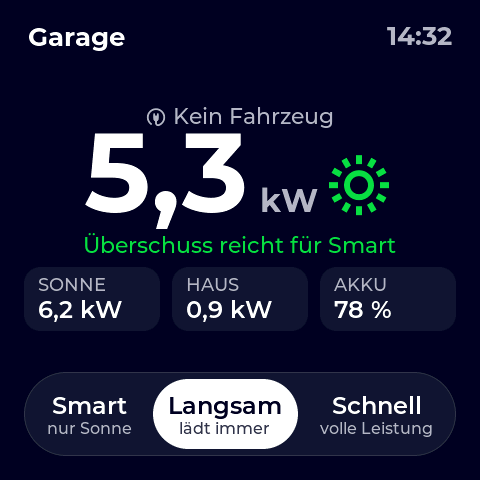
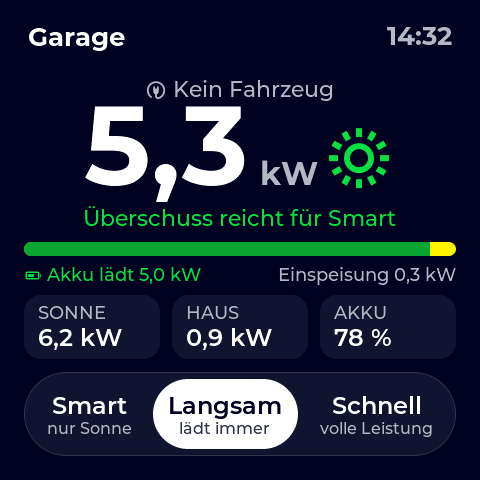
Ohne Fahrzeug zeigen, wohin der Überschuss geht: Akku und Netz
Ein Balken unter dem Sonnenüberschuss zeigt, was in den Hausakku (grün)
und ins Netz (gelb) geht, abends Entladen des Akkus und Netzbezug (grau).
Der Überschuss ergibt sich jetzt aus Akku- und Netzleistung und lässt
damit weg, was andere Ladepunkte schon nutzen. Neuer Beispielzustand
nocarfull (#3).

Changed region(s): [[0.0312, 0.1562, 0.9688, 0.7188]]

diff --git a/site/index.html b/site/index.html
@@ -146,7 +146,7 @@
             <figure><img data-shot="solar" alt="Lädt mit 4,1 kW, 100 % Sonne" /><figcaption><b>Nur Sonne</b>100 % vom Dach, Modus Smart</figcaption></figure>
             <figure><img data-shot="fast" alt="Lädt mit 11 kW im Modus Schnell" /><figcaption><b>Schnell</b>Volle Leistung aus dem Netz</figcaption></figure>
             <figure><img data-shot="start" alt="Genug Sonne – Start in 0:45" /><figcaption><b>Gleich geht's los</b>Countdown, bis genug Sonne da ist</figcaption></figure>
-            <figure><img data-shot="nocar" alt="Kein Fahrzeug, 5,3 kW Sonnenüberschuss, reicht für Smart" /><figcaption><b>Kein Fahrzeug</b>Sonnenüberschuss, Haus und Akku – lohnt sich Anstecken gerade?</figcaption></figure>
+            <figure><img data-shot="nocar" alt="Kein Fahrzeug, 5,3 kW Sonnenüberschuss: 5,0 kW in den Akku, 0,3 kW ins Netz" /><figcaption><b>Kein Fahrzeug</b>Sonnenüberschuss und wohin er geht: in den Akku oder ins Netz – lohnt sich Anstecken gerade?</figcaption></figure>
             <figure><img data-shot="stale" alt="evcc nicht erreichbar" /><figcaption><b>Ehrlich bei Störungen</b>Zeigt, wenn die Daten nicht aktuell sind</figcaption></figure>
           </div>
         </div>

diff --git a/src/ui.cpp b/src/ui.cpp
@@ -17,7 +17,7 @@ LV_FONT_DECLARE(font_icon_big);
 
 // Farben angelehnt an die evcc-Weboberfläche
 struct Theme {
-  lv_color_t bg, box, text, muted, activeBg, activeFg, pressed, solar, solarText, grid, warn, error, border;
+  lv_color_t bg, box, text, muted, activeBg, activeFg, pressed, solar, solarText, grid, warn, error, border, battery, feedIn;
 };
 
 static const Theme LIGHT = {
@@ -26,13 +26,15 @@ static const Theme LIGHT = {
     lv_color_hex(0x28293E), lv_color_hex(0xFFFFFF), lv_color_hex(0xE4E4EC), lv_color_hex(0x0FDE41),
     lv_color_hex(0x078A2C), lv_color_hex(0x28293E), lv_color_hex(0xC26A00), lv_color_hex(0xD9380A),
     lv_color_hex(0xDCDCE4),
+    // Akku und Einspeisung wie im Energiefluss von evcc (Einspeisung auf Hell im dunkleren Gelb)
+    lv_color_hex(0x0BA631), lv_color_hex(0xF6BB0F),
 };
 // Dunkles Navy wie evcc ab 0.317
 static const Theme DARK = {
     lv_color_hex(0x010322), lv_color_hex(0x151630), lv_color_hex(0xFFFFFF), lv_color_hex(0xB5B6C3),
     lv_color_hex(0xFFFFFF), lv_color_hex(0x010322), lv_color_hex(0x2A2C4C), lv_color_hex(0x0FDE41),
     lv_color_hex(0x0FDE41), lv_color_hex(0x93949E), lv_color_hex(0xFF9000), lv_color_hex(0xFC440F),
-    lv_color_hex(0x33354F),
+    lv_color_hex(0x33354F), lv_color_hex(0x0BA631), lv_color_hex(0xFAF000),
 };
 
 static const Theme* theme = &LIGHT;
@@ -408,7 +410,6 @@ static void applyTheme() {
   lv_obj_set_style_text_color(lblVehicle, t.muted, 0);
   lv_obj_set_style_text_color(lblBattery, t.muted, 0);
   lv_obj_set_style_text_color(lblGrid, t.muted, 0);
-  lv_obj_set_style_bg_color(barFill, t.solar, 0);
   for (int i = 0; i < 3; i++) {
     lv_obj_set_style_bg_color(tile[i], t.box, 0);
     lv_obj_set_style_text_color(tileLabel[i], t.muted, 0);
@@ -442,7 +443,12 @@ static void renderSegments(ChargeMode shown, bool pending) {
   }
 }
 
-static float surplus(const EvccState& s) { return LV_MAX(0.0f, s.pvPower - s.homePower); }
+// Was gerade in den Akku und ins Netz geht – ohne das, was andere Ladepunkte schon nutzen.
+// Ohne Netzleistung: PV minus Hausverbrauch
+static float surplus(const EvccState& s) {
+  const float battery = s.batterySoc >= 0 ? s.batteryPower : 0;
+  return LV_MAX(0.0f, s.hasGrid ? -(s.gridPower + battery) : s.pvPower - s.homePower);
+}
 
 // Ohne Fahrzeug Sonnenüberschuss, Haus und Akku zeigen, sofern evcc eine PV-Anlage kennt (auch nachts)
 static bool showHouse(const EvccState& s) { return s.valid && !s.connected && s.pvPower >= 0; }
@@ -593,13 +599,37 @@ void ui::render(const UiView& v) {
   lv_label_set_text(lblStatus, buf);
   lv_obj_set_style_text_color(lblStatus, statusColor, 0);
 
-  // Balken: aktueller Sonnenanteil der Ladeleistung
+  // Balken: beim Laden der aktuelle Sonnenanteil der Ladeleistung. Ohne Fahrzeug, wohin der Überschuss
+  // geht (Akku grün, Einspeisung gelb) bzw. woher das Haus Strom bezieht (Akku, Netzbezug grau)
   const bool showBar = showPower && s.charging && s.greenShare >= 0;
-  setVisible(barBlock, showBar);
-  if (showBar) {
+  const bool flowBar = house && s.batterySoc >= 0 && s.hasGrid;
+  setVisible(barBlock, showBar || flowBar);
+  char num[16];
+  if (flowBar) {
+    const float battery = fabsf(s.batteryPower), grid = fabsf(s.gridPower);
+    const int pct = battery + grid >= 50 ? constrain((int)lroundf(battery / (battery + grid) * 100.0f), 0, 100) : 0;
+    lv_obj_set_width(barFill, CONTENT_W * pct / 100);
+    setVisible(barFill, pct > 0);
+    lv_obj_set_style_bg_color(barFill, t.battery, 0);
+    lv_obj_set_style_bg_color(barBg, !live ? t.muted : s.gridPower < -50 ? t.feedIn : t.grid, 0);
+    lv_obj_set_style_bg_opa(barBg, live ? LV_OPA_COVER : LV_OPA_40, 0);
+    if (battery < 50) {
+      snprintf(buf, sizeof(buf), ICON_BATTERY " Akku %s", s.batterySoc >= 99.5f ? "voll" : "pausiert");
+    } else {
+      formatDecimal(num, sizeof(num), battery / 1000.0f);
+      snprintf(buf, sizeof(buf), ICON_BATTERY " Akku %s %s kW", s.batteryPower < 0 ? "lädt" : "entlädt", num);
+    }
+    lv_label_set_text(lblSolar, buf);
+    lv_obj_set_style_text_color(lblSolar, live && s.batteryPower <= -50 ? t.solarText : t.muted, 0);
+    formatDecimal(num, sizeof(num), grid / 1000.0f);
+    snprintf(buf, sizeof(buf), "%s %s kW", s.gridPower > 0 ? "Netzbezug" : "Einspeisung", num);
+    lv_label_set_text(lblGrid, buf);
+    lv_obj_align(lblGrid, LV_ALIGN_TOP_RIGHT, 0, BAR_H + 8);
+  } else if (showBar) {
     const int pct = constrain((int)lroundf(s.greenShare * 100.0f), 0, 100);
     lv_obj_set_width(barFill, CONTENT_W * pct / 100);
     setVisible(barFill, pct > 0);
+    lv_obj_set_style_bg_color(barFill, t.solar, 0);
     lv_obj_set_style_bg_color(barBg, live ? t.grid : t.muted, 0);
     lv_obj_set_style_bg_opa(barBg, live ? LV_OPA_COVER : LV_OPA_40, 0);
     snprintf(buf, sizeof(buf), ICON_SUN " Jetzt %d %% Sonne", pct);
@@ -613,7 +643,6 @@ void ui::render(const UiView& v) {
   // Kacheln: Werte der laufenden bzw. letzten Sitzung, ohne Fahrzeug Sonne, Haus und Akku
   const bool showTiles = showPower && (s.charging || s.chargedEnergy > 0);
   setVisible(tiles, showTiles || house);
-  char num[16];
   if (house) {
     const bool battery = s.batterySoc >= 0;
     for (int i = 0; i < 3; i++) lv_label_set_text(tileLabel[i], HOUSE_TILE_TEXT[i]);

diff --git a/src/evcc_client.cpp b/src/evcc_client.cpp
@@ -83,6 +83,9 @@ static void parseLoadpoint(JsonObject root, JsonObject lp, EvccState& s) {
   if (root["pv"].is<float>()) s.pvPower = root["pv"];
   s.homePower = root["home"] | 0.0f;
   if (root["bat"].is<float>()) s.batterySoc = root["bat"];
+  s.batteryPower = root["batp"] | 0.0f;
+  s.hasGrid = root["grid"].is<float>();
+  s.gridPower = root["grid"] | 0.0f;
   // Phasen, mit denen Smart startet: fest eingestellt oder bei Umschaltung (0 = automatisch) einphasig
   const int phasesConfigured = lp["phasesConfigured"] | 0;
   const int phases = phasesConfigured == 1 || phasesConfigured == 3 ? phasesConfigured
@@ -181,14 +184,17 @@ void evcc::begin() {
     if (i) lps += ',';
     lps += s.loadpoints[i] - 1;
   }
-  // Ältere evcc-Versionen liefern den Akku-Ladestand als batterySoc, neuere unter battery.soc
+  // Ältere evcc-Versionen liefern Akku und Netz als batterySoc, batteryPower und gridPower,
+  // neuere unter battery.soc, battery.power und grid.power
   char jq[768];
   snprintf(jq, sizeof(jq),
            "{lps:[.loadpoints[%s]|if . then {title,mode,alwaysCharge,chargePower,charging,connected,chargedEnergy,"
            "chargeDuration,phasesActive,sessionSolarPercentage,vehicleTitle,vehicleSoc,pvAction,pvRemaining,"
            "planActive,smartCostActive,minCurrent:(.effectiveMinCurrent // .minCurrent),phasesConfigured,"
            "chargerPhases1p3p} else null end],green:.greenShareLoadpoints,pv:.pvPower,home:.homePower,"
-           "bat:((try (if (.battery.devices|length)>0 then .battery.soc else null end) catch null) // .batterySoc)}",
+           "bat:((try (if (.battery.devices|length)>0 then .battery.soc else null end) catch null) // .batterySoc),"
+           "batp:((try (if (.battery.devices|length)>0 then .battery.power else null end) catch null) // .batteryPower),"
+           "grid:((try .grid.power catch null) // .gridPower)}",
            lps.c_str());
   stateUrl = server + "/api/state?jq=" + urlEncode(jq);
 

diff --git a/src/preview.cpp b/src/preview.cpp
@@ -2,12 +2,16 @@
 
 #include <string.h>
 
-const char* const preview::NAMES = "charging|solar|fast|nocar|nocarlow|night|waiting|start|off|stale";
+const char* const preview::NAMES = "charging|solar|fast|nocar|nocarlow|nocarfull|night|waiting|start|off|stale";
 
-// Typisches Haus am Mittag: PV 6,2 kW, Haus 0,9 kW, Akku 78 %; Smart braucht einphasig 1,4 kW
-static void house(EvccState& p, float pv, float home) {
+// Typisches Haus am Mittag: PV 6,2 kW, Haus 0,9 kW, Akku 78 % lädt mit 5 kW, 0,3 kW gehen ins Netz;
+// Smart braucht einphasig 1,4 kW
+static void house(EvccState& p, float pv, float home, float battery, float grid) {
   p.pvPower = pv;
   p.homePower = home;
+  p.batteryPower = battery;
+  p.gridPower = grid;
+  p.hasGrid = true;
   p.batterySoc = 78;
   p.minChargePower = 6 * 230;
 }
@@ -21,7 +25,7 @@ bool preview::scene(const char* name, EvccState& p, bool& stale) {
   strncpy(p.vehicleTitle, "ID.4", sizeof(p.vehicleTitle) - 1);
   p.vehicleSoc = 41;
   stale = false;
-  house(p, 6200, 900);
+  house(p, 6200, 900, -5000, -300);
 
   if (!strcmp(name, "charging") || !strcmp(name, "stale")) {
     p.charging = true;
@@ -56,10 +60,14 @@ bool preview::scene(const char* name, EvccState& p, bool& stale) {
   } else if (!strcmp(name, "nocarlow")) {
     p.connected = false;
     p.mode = ChargeMode::Smart;
-    house(p, 1900, 1100);
+    house(p, 1900, 1100, -800, 0);
+  } else if (!strcmp(name, "nocarfull")) {
+    p.connected = false;
+    house(p, 6200, 900, 0, -5300);
+    p.batterySoc = 100;
   } else if (!strcmp(name, "night")) {
     p.connected = false;
-    house(p, 0, 450);
+    house(p, 0, 450, 350, 100);
   } else if (!strcmp(name, "waiting")) {
     p.mode = ChargeMode::Smart;
   } else if (!strcmp(name, "start")) {

diff --git a/src/evcc_client.h b/src/evcc_client.h
@@ -36,6 +36,9 @@ struct EvccState {
   float pvPower = -1;         // W, -1 = keine PV-Anlage bekannt
   float homePower = 0;        // W, Verbrauch im Haus ohne Ladepunkte
   float batterySoc = -1;      // %, -1 = kein Hausakku
+  float batteryPower = 0;     // W wie in evcc: + = Akku entlädt, − = Akku lädt
+  float gridPower = 0;        // W wie in evcc: + = Netzbezug, − = Einspeisung
+  bool hasGrid = false;       // evcc kennt die Netzleistung
   float minChargePower = 0;   // W, ab diesem Überschuss startet Smart (Mindeststrom × Phasen × 230 V)
 };
 

diff --git a/README.md b/README.md
@@ -12,9 +12,9 @@ Der frühere Stand für das 2,8"-„Cheap Yellow Display" liegt im Git-Tag `cyd-
 | Bereich | Inhalt |
 | --- | --- |
 | Kopfzeile | Name des Ladepunkts, Uhrzeit, Ladestand des Hausakkus (sofern vorhanden), Warnsymbol bei WLAN-/evcc-Problemen |
-| Mitte | Angestecktes Fahrzeug mit Ladestand, darunter die Ladeleistung in kW mit grünem Blitz beim Laden. Ohne Fahrzeug der aktuelle Sonnenüberschuss (PV minus Hausverbrauch) mit Kacheln für Sonne, Haus und Akku – und ob der Überschuss für Smart reicht. Ohne PV-Anlage nur „Kein Fahrzeug“ |
+| Mitte | Angestecktes Fahrzeug mit Ladestand, darunter die Ladeleistung in kW mit grünem Blitz beim Laden. Ohne Fahrzeug der aktuelle Sonnenüberschuss (was gerade in den Akku und ins Netz geht) mit Kacheln für Sonne, Haus und Akku – und ob der Überschuss für Smart reicht. Ohne PV-Anlage nur „Kein Fahrzeug“ |
 | Statuszeile | z. B. „Lädt · 3-phasig", „Wartet auf Sonnenüberschuss", „Genug Sonne – Start in 0:45" |
-| Balken | Sonnen- und Netzanteil der aktuellen Ladeleistung |
+| Balken | Sonnen- und Netzanteil der aktuellen Ladeleistung. Ohne Fahrzeug (mit Hausakku): wohin der Überschuss geht – grün in den Akku, gelb ins Netz; abends Entladen des Akkus und Netzbezug (grau) |
 | Kacheln | Geladene Energie, Dauer und durchschnittlicher Sonnenanteil der Sitzung |
 | Unten | Modustasten Smart · Langsam · Schnell, jeweils mit kurzer Beschreibung |
 
@@ -57,7 +57,7 @@ evcc ab Version 0.316 kennt nur noch `off`, `smart` und `now`. Das Display bilde
 - Schriften: Montserrat (SIL OFL) und die Icons der evcc-Oberfläche – [Shopicons](https://github.com/H2D2-Design/h2d2-shopicons)
   und Material Symbols (beide Apache-2.0), SVGs in `tools/icons` (das Akku-Symbol ist selbst gezeichnet). Erzeugt mit `tools/gen_fonts.sh` (braucht fontforge)
 - Daten: alle 3 s `GET /api/state?jq=…` – der jq-Filter liefert nur die benötigten Felder (~400 Byte statt ~70 KB),
-  darunter `pvPower`, `homePower` und den Ladestand des Hausakkus
+  darunter `pvPower`, `homePower`, Ladestand und Leistung des Hausakkus und die Netzleistung
 - Umschalten: `POST /api/loadpoints/<n>/alwayscharge/{on|off}` und `POST /api/loadpoints/<n>/mode/{smart|now}`
 - Netzwerk läuft in einem eigenen Task auf Kern 0, die Oberfläche bleibt dadurch flüssig
 - Eine Taste zeigt den neuen Modus erst voll an, wenn evcc ihn bestätigt hat (vorher halbtransparent)
@@ -125,7 +125,7 @@ Im Heimnetz unter `http://evcc-garage.local:8080`:
 | --- | --- |
 | `/settings` | Einstellungen ändern (wie im Portal, ohne WLAN) |
 | `/screenshot.bmp` | aktueller Bildschirminhalt |
-| `/preview?s=charging\|solar\|fast\|nocar\|nocarlow\|night\|waiting\|start\|off\|stale&dark=0\|1` | zeigt 60 s lang einen Beispielzustand ([src/preview.cpp](src/preview.cpp)); `/preview` ohne Parameter beendet |
+| `/preview?s=charging\|solar\|fast\|nocar\|nocarlow\|nocarfull\|night\|waiting\|start\|off\|stale&dark=0\|1` | zeigt 60 s lang einen Beispielzustand ([src/preview.cpp](src/preview.cpp)); `/preview` ohne Parameter beendet |
 | `/update` | Firmware-Version und Stand der automatischen Updates; `?check=1` prüft sofort, `?install=1` installiert eine gefundene neue Version sofort |
 | `/diag` | Laufzeit, Neustartgrund, freier Speicher, zurückgerollte Updates und der letzte gespeicherte Absturz |
 | `/wifiscan` | löst eine WLAN-Suche aus (Lasttest für die Bildausgabe) |
